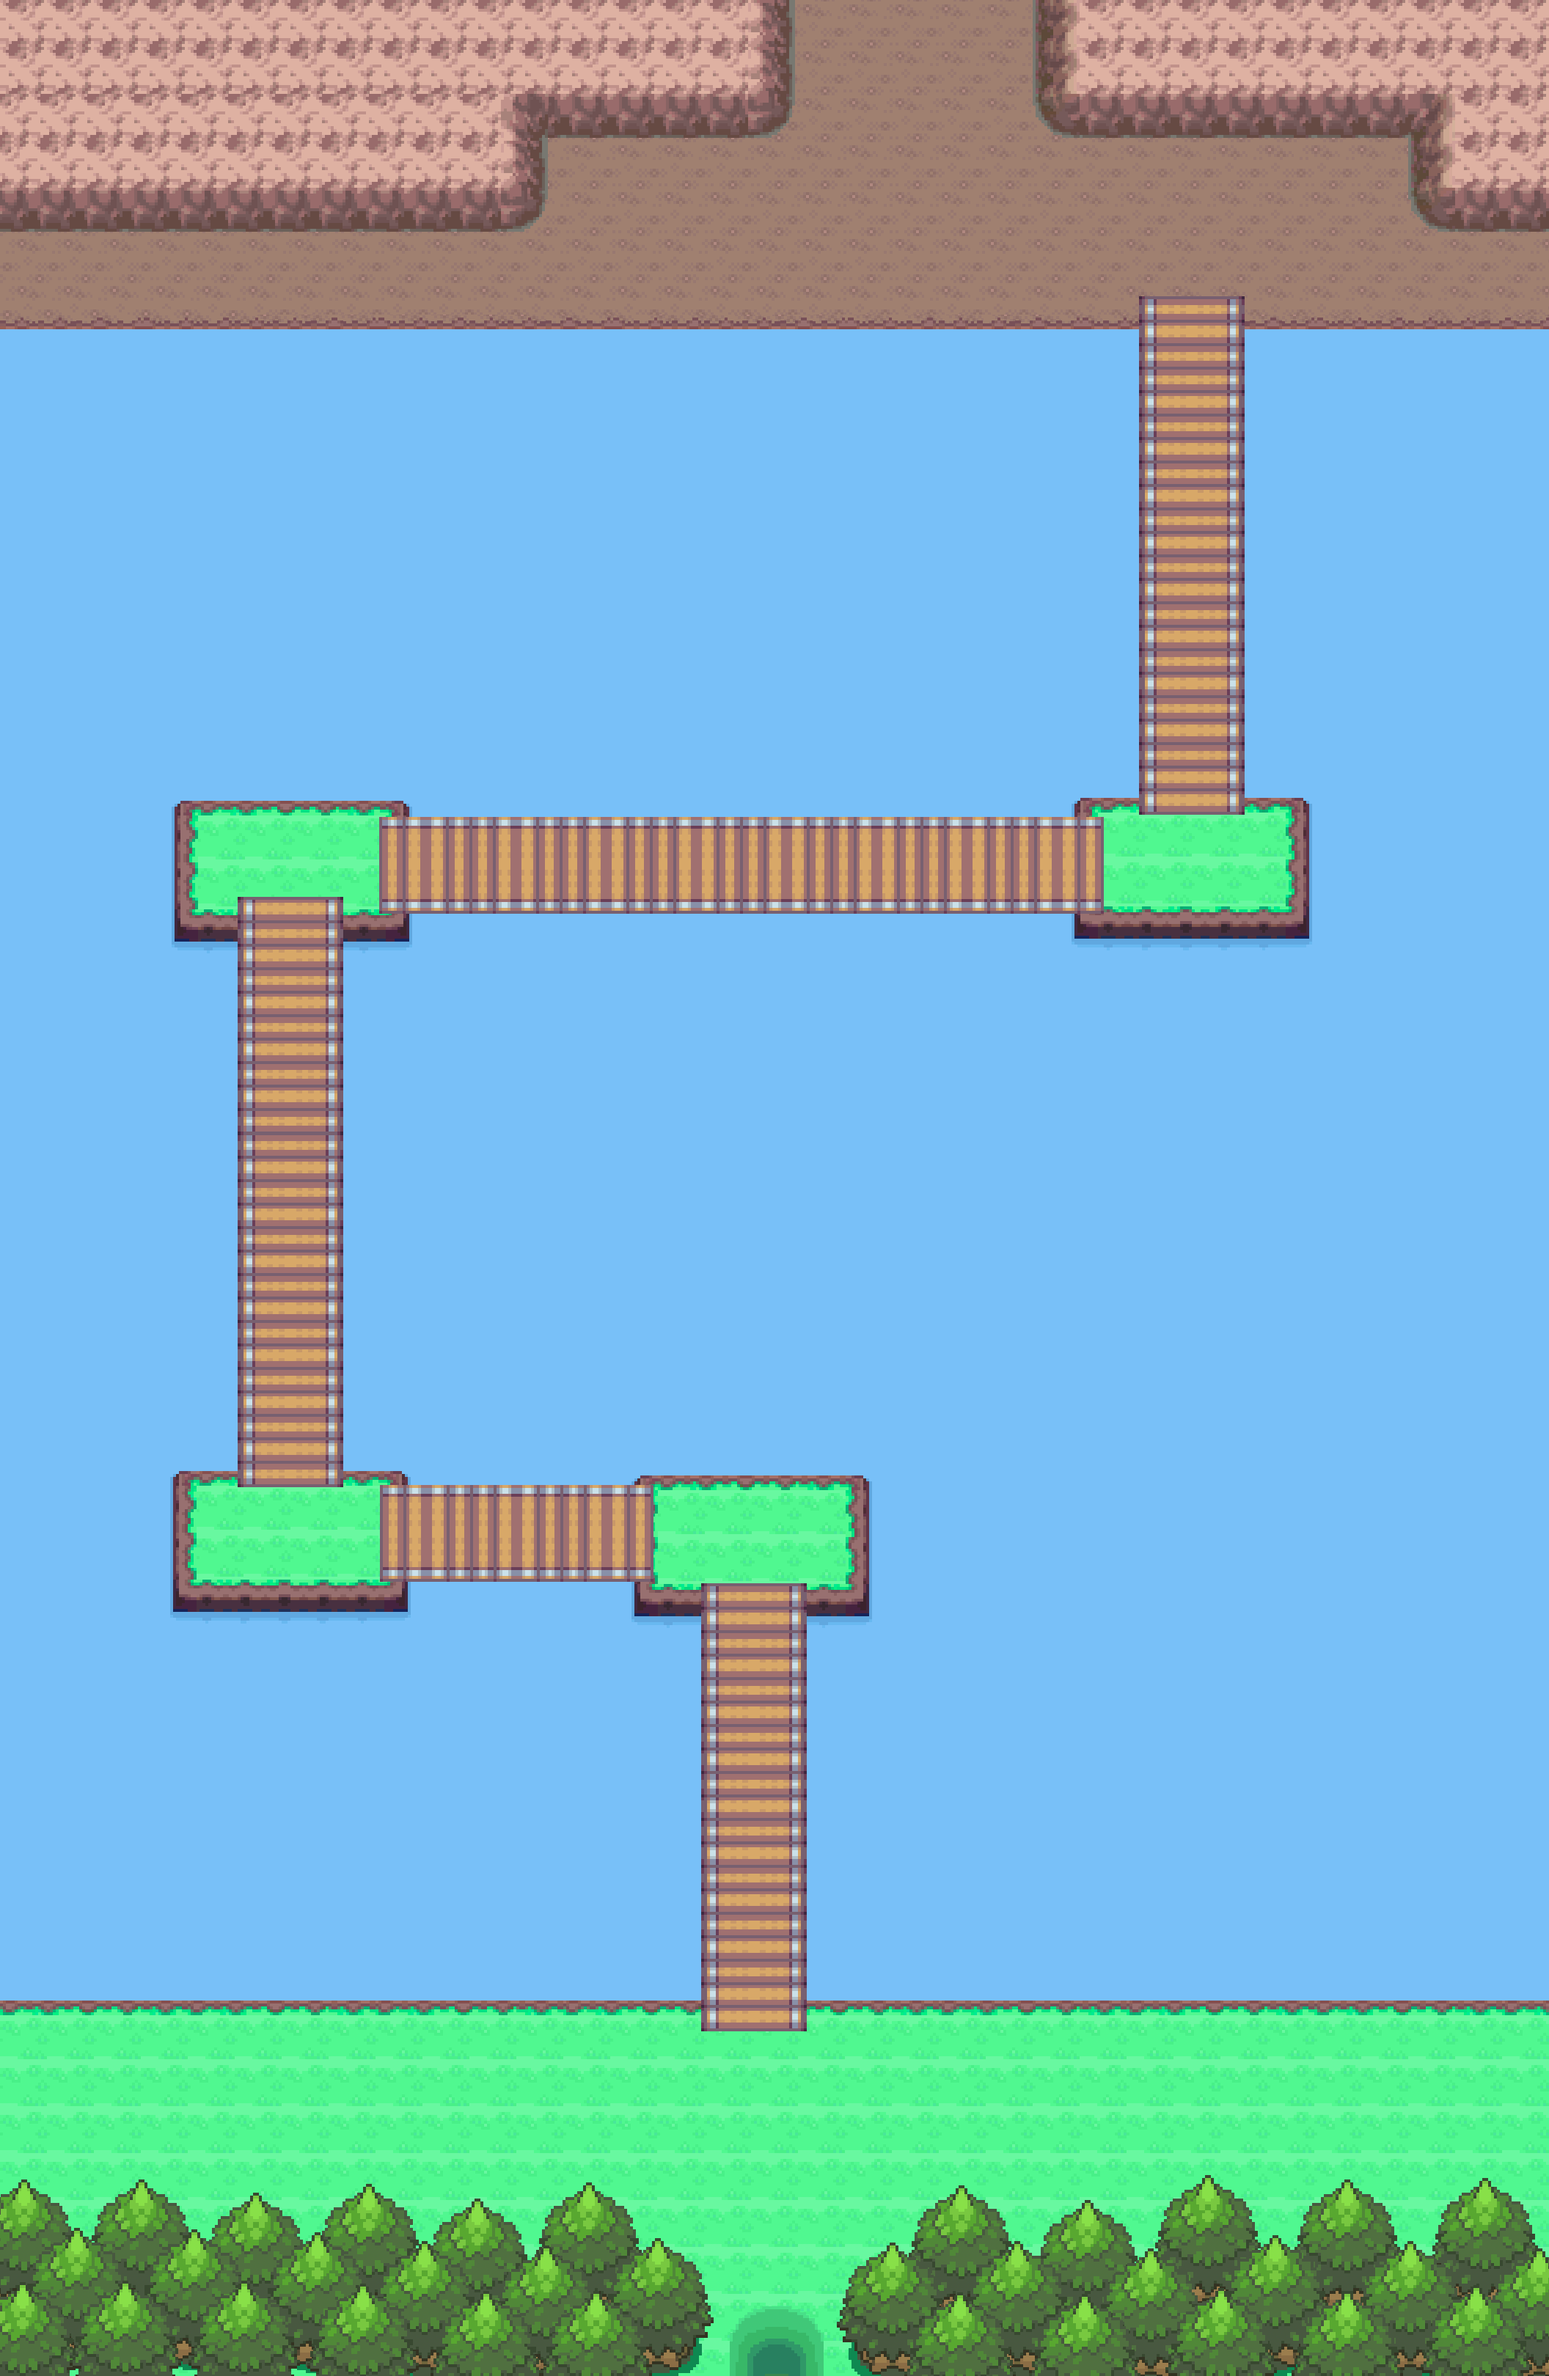
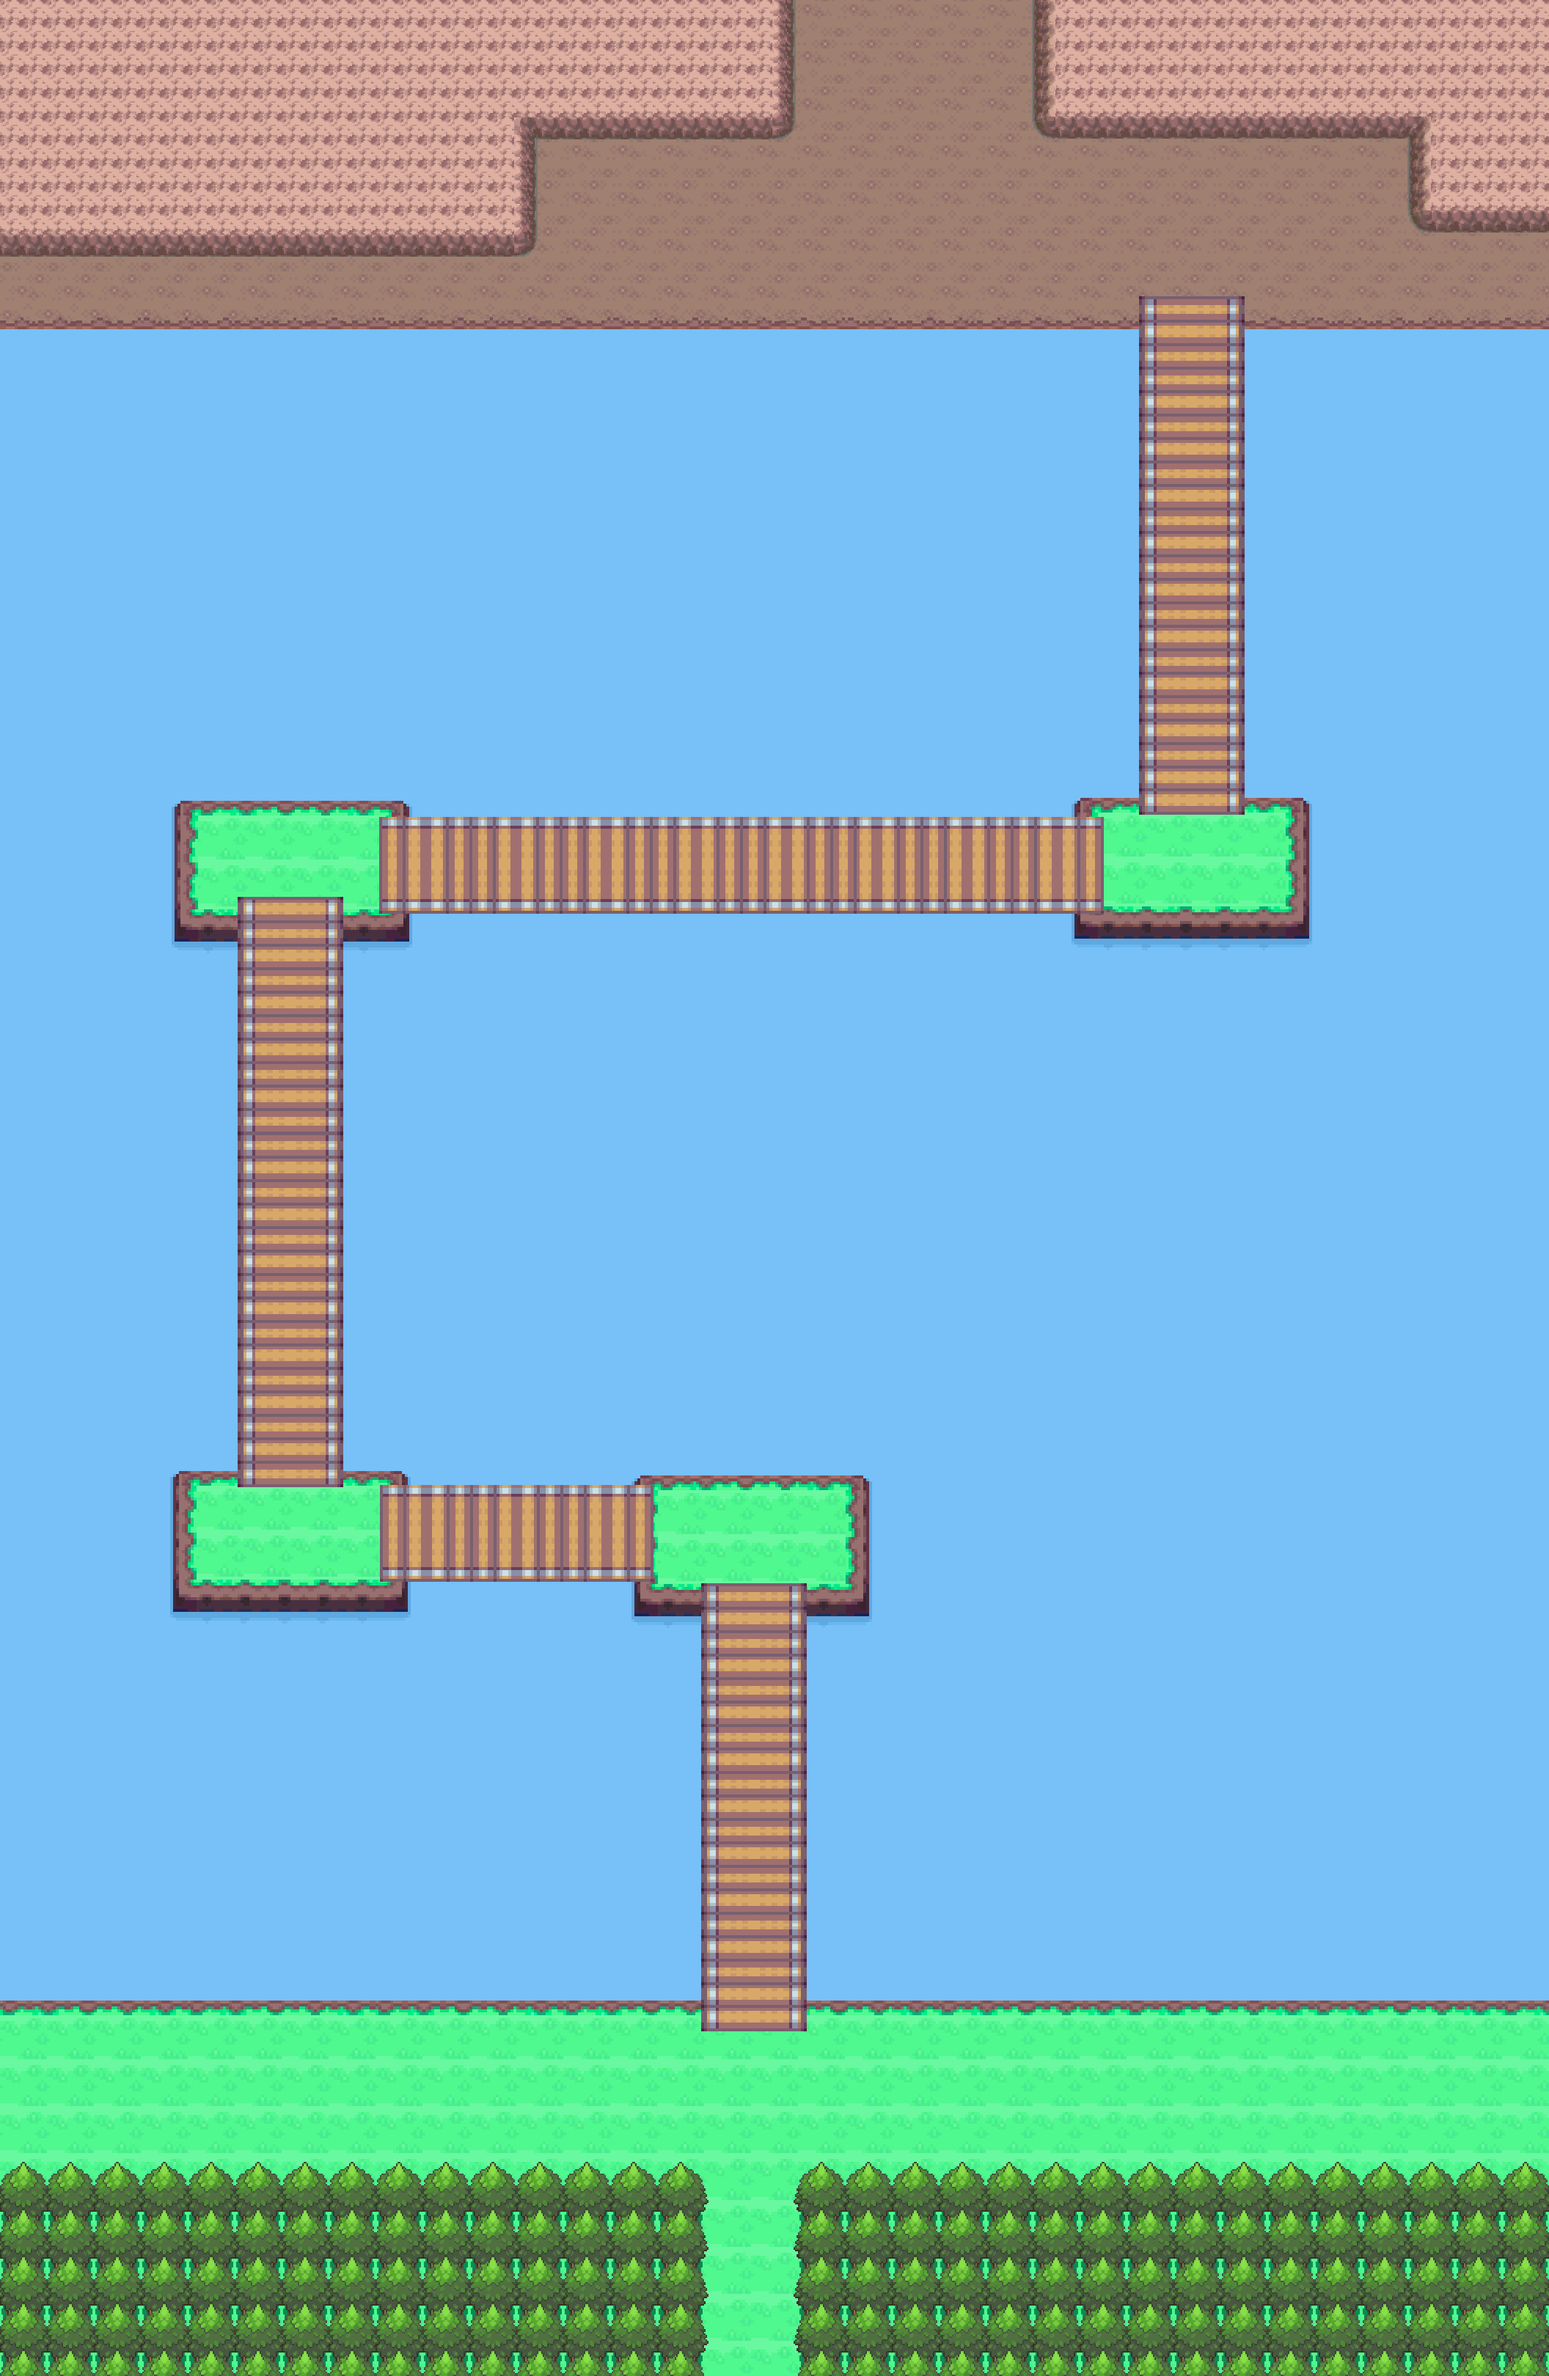
add forest map + tp

Changed region(s): [[0.0, 0.904, 1.0, 1.0], [0.0, 0.0, 0.5312, 0.1247], [0.6562, 0.0, 1.0, 0.0935]]

diff --git a/include/maps.h b/include/maps.h
@@ -10,12 +10,16 @@
 
 char *MAPS_PATH[] = {
     "assets/maps/test1/",
-    "assets/maps/test2/"
+    "assets/maps/test2/",
+    "assets/maps/forest/",
+    "assets/maps/river/",
 };
 
 const sfVector2f MAPS_SPAWN[][8] = {
-    {{1550, 1700}, {796, 340}, {0, 0}, {0, 0}, {0, 0}, {0, 0}, {0, 0}, {0, 0}},
-    {{920, 870}, {0, 0}, {0, 0}, {0, 0}, {0, 0}, {0, 0}, {0, 0}, {0, 0}}
+    {{1550, 1700}, {796, 340}, {1660, 70}, {0, 0}, {0, 0}, {0, 0}, {0, 0}, {0, 0}},
+    {{920, 870}, {0, 0}, {0, 0}, {0, 0}, {0, 0}, {0, 0}, {0, 0}, {0, 0}},
+    {{423, 1160}, {1270, 70}, {0, 0}, {0, 0}, {0, 0}, {0, 0}, {0, 0}, {0, 0}},
+    {{1015, 3160}, {0, 0}, {0, 0}, {0, 0}, {0, 0}, {0, 0}, {0, 0}, {0, 0}}
 };
 
 #endif /* !MAPS_H_ */
